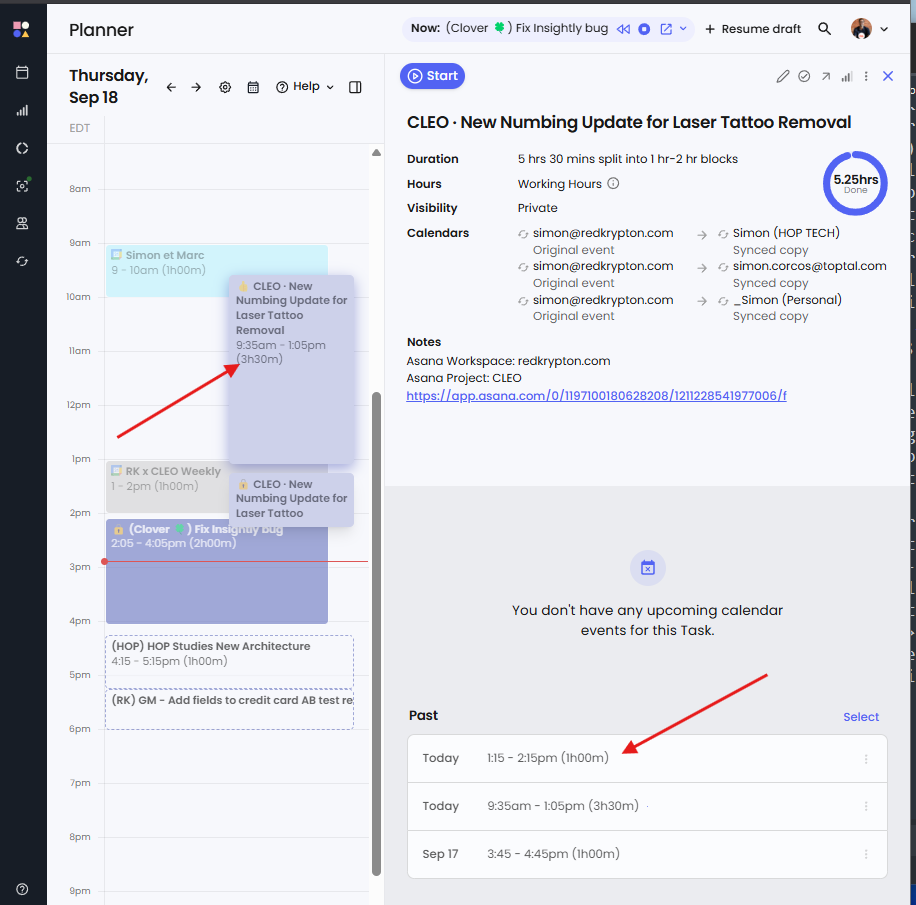
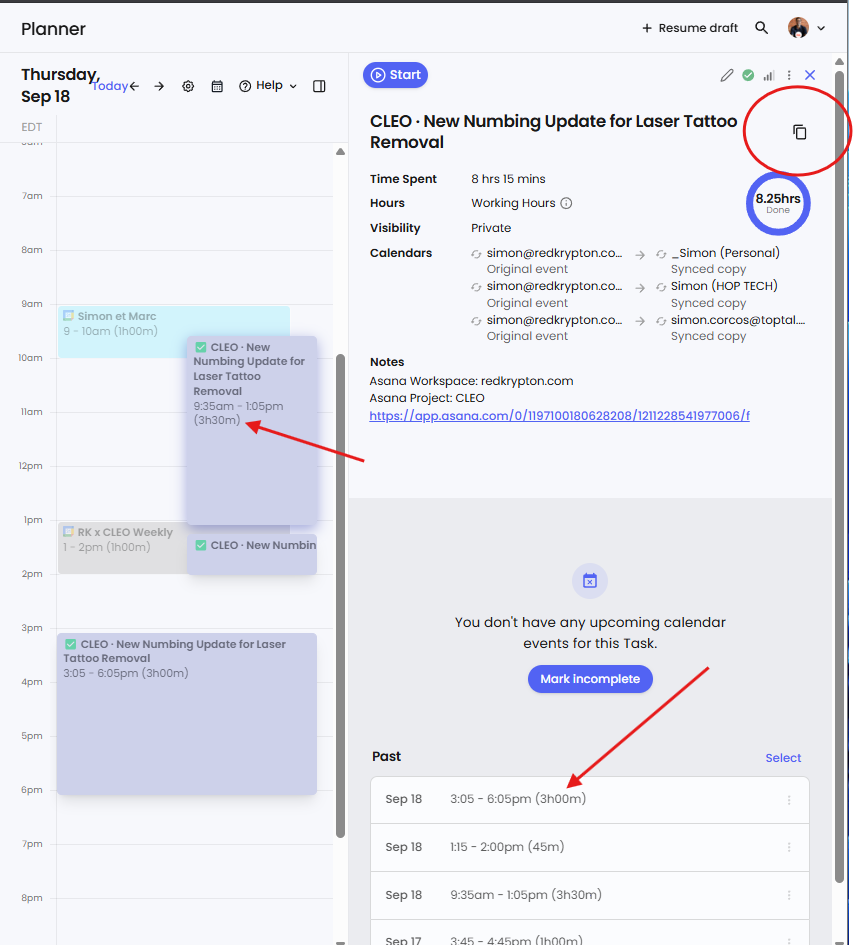
feat: copy task title button

diff --git a/content-script.js b/content-script.js
@@ -4,6 +4,7 @@
 (function () {
   const MARK_ATTR = 'data-reclaim-duration-appended';
   const MARK_VERSION = '1';
+  const COPY_BTN_ATTR = 'data-reclaim-copy-title';
 
   // Regex to match time ranges like "1:15 - 2:15pm", "9:35am - 1:05pm", or "12:00pm - 1:30pm"
   // Supports optional minutes and optional am/pm on BOTH times.
@@ -44,6 +45,52 @@
     // Always two decimals as per examples (e.g., 1.25h, 0.75h)
     const dec = (minutes / 60);
     return dec.toFixed(2);
+  }
+
+  // Parse a raw title string to remove client/project prefixes per examples
+  function parseTitleForCopy(raw) {
+    if (raw == null) return '';
+    let s = String(raw).trim();
+    if (!s) return '';
+
+    const original = s;
+
+    // 1) Remove one or more leading parenthetical tags e.g., (HOP) (RK)
+    s = s.replace(/^(?:\s*\([^)]{1,30}\)\s*)+/g, '').trim();
+
+    // 2) If there's a middle dot separator (client · title), drop the left side
+    const dotIdx = s.indexOf('·');
+    if (dotIdx > -1) {
+      const left = s.slice(0, dotIdx).trim();
+      const right = s.slice(dotIdx + 1).trim();
+      // Heuristic: left looks like a short client/project label
+      if (left.length > 0 && left.length <= 30 && left.split(/\s+/).length <= 4) {
+        s = right;
+      }
+    }
+
+    // 3) Remove prefix before hyphen when it looks like a client/project label
+    //    Handles cases like "GM - Title" and "Gleam - Title"
+    const hyphenMatch = s.match(/^\s*(.+?)\s*[\-–—]\s+(.+)$/);
+    if (hyphenMatch) {
+      const left = hyphenMatch[1].trim();
+      const right = hyphenMatch[2].trim();
+
+      const leftWords = left.split(/\s+/).filter(Boolean);
+      const rightWords = right.split(/\s+/).filter(Boolean);
+      const leftLooksLikeCode = /^[A-Z0-9]{1,5}$/.test(left);
+      const isLeftShort = left.length <= 20 && leftWords.length <= 3;
+      const leftTitleCased = leftWords.length > 0 && leftWords.every(w => /^[A-Z][a-z0-9'()&.-]*$/.test(w));
+      const rightHasIndicators = /[,()]/.test(right) || rightWords.length >= 4;
+      const rightStartsWithVerb = /\b(Add|Fix|Deploy|Update|Upgrade|Implement|Migrate|Refactor|QA|Design|Build|Setup|Set\s*up|Sync|Investigate|Research|Write|Draft|Review|Plan|Meeting|Kickoff|Support|Debug|Copy|Create|Optimize|Improve|Bug|Test)\b/i.test(right);
+
+      if (leftLooksLikeCode || (isLeftShort && leftTitleCased && (rightHasIndicators || rightStartsWithVerb))) {
+        s = right;
+      }
+    }
+
+    s = s.trim();
+    return s || original;
   }
 
   function parseAndFormatDuration(text) {
@@ -90,6 +137,26 @@
       .reclaim-duration{cursor:pointer;text-decoration:none;}
       .reclaim-duration .reclaim-duration-inner{ text-decoration:none; }
       .reclaim-duration:hover .reclaim-duration-inner{ text-decoration:underline; }
+    `;
+    (document.head || document.documentElement).appendChild(style);
+  }
+
+  function ensureCopyTitleStyle() {
+    if (document.getElementById('reclaim-copy-title-style')) return;
+    const style = document.createElement('style');
+    style.id = 'reclaim-copy-title-style';
+    style.textContent = `
+      .reclaim-copy-title-btn{ 
+        display:inline-flex; align-items:center; justify-content:center; 
+        width:18px; height:18px; min-width:22px; min-height:22px; margin-left:8px; padding:0; border-radius:4px; border:1px solid transparent; 
+        cursor:pointer; background:transparent; color:inherit; line-height:1; 
+        order:-1; flex:0 0 22px;
+      }
+      .reclaim-copy-title-btn:hover{ background:rgba(0,0,0,0.06); }
+      .reclaim-copy-title-btn:active{ transform: translateY(0.5px); }
+      .reclaim-copy-title-btn svg{ width:18px; height:18px; fill: currentColor; }
+      .reclaim-copy-title-badge{ font-size:12px; margin-left:6px; opacity:0.75; }
+      .reclaim-copy-title-viewer{ order:-2; flex: 1 1 auto; min-width:0; }
     `;
     (document.head || document.documentElement).appendChild(style);
   }
@@ -202,6 +269,200 @@
     }
   }
 
+  // ---------- Title copy button injection ----------
+  function buildCopyButton(getText) {
+    const btn = document.createElement('button');
+    btn.type = 'button';
+    btn.className = 'reclaim-copy-title-btn';
+    btn.setAttribute('aria-label', 'Copy title to clipboard');
+    btn.title = 'Copy title to clipboard';
+    btn.innerHTML = `
+      <svg viewBox="0 0 24 24" aria-hidden="true" focusable="false">
+        <path d="M16 1H4c-1.1 0-2 .9-2 2v12h2V3h12V1zm3 4H8c-1.1 0-2 .9-2 2v14c0 1.1.9 2 2 2h11c1.1 0 2-.9 2-2V7c0-1.1-.9-2-2-2zm0 16H8V7h11v14z"></path>
+      </svg>
+    `;
+
+    const copy = (e) => {
+      e.stopPropagation();
+      const raw = (typeof getText === 'function') ? (getText() || '') : '';
+      const text = parseTitleForCopy(raw);
+      if (!text) return;
+      try {
+        if (navigator.clipboard && navigator.clipboard.writeText) {
+          navigator.clipboard.writeText(text).catch(() => {});
+        } else {
+          const ta = document.createElement('textarea');
+          ta.value = text;
+          ta.style.position = 'fixed';
+          ta.style.opacity = '0';
+          document.body.appendChild(ta);
+          ta.focus();
+          ta.select();
+          try { document.execCommand('copy'); } catch (_) {}
+          document.body.removeChild(ta);
+        }
+        // brief visual feedback via title change
+        const prev = btn.title;
+        btn.title = 'Copied!';
+        setTimeout(() => { btn.title = prev; }, 1200);
+      } catch (_) {}
+    };
+    btn.addEventListener('click', copy);
+    btn.addEventListener('keydown', (e) => {
+      if (e.key === 'Enter' || e.key === ' ') { copy(e); e.preventDefault(); }
+    });
+    return btn;
+  }
+
+  function getTitleTextFromContainer(container) {
+    if (!container) return '';
+    // If in edit mode, prefer the input's value
+    const input = container.querySelector('input[type="text"], textarea');
+    if (input && typeof input.value === 'string' && input.value.trim().length > 0) {
+      return input.value.trim();
+    }
+    // Primary: span with class containing 'EmojiTextField_viewer__'
+    const viewer = container.querySelector('[class*="EmojiTextField_viewer__"]');
+    if (viewer && viewer.textContent) return viewer.textContent.trim();
+    // Fallback: any element with role heading or first text node
+    const heading = container.querySelector('[role="heading"], h1, h2, h3');
+    if (heading && heading.textContent) return heading.textContent.trim();
+    return container.textContent ? container.textContent.trim() : '';
+  }
+
+  // ----- Title wrapper processing and observers -----
+  const TITLE_WRAPPER_SELECTOR = [
+    '[class*="GenericEventDetails_inner__header__titles"] [class*="EmojiTextField_root"]',
+    // Simple title variant: plain title div inside the titles container
+    '[class*="GenericEventDetails_inner__header__titles"] [class*="GenericEventDetails_inner__header__titles__title__"]',
+    '[class*="GenericEventDetails_inner__header__titles"] > [class*="GenericEventDetails_inner__header__titles__title__"]'
+  ].join(',');
+  const wrapperObserverMap = new WeakMap();
+  const wrapperDebounceMap = new WeakMap();
+
+  function processTitleWrapper(parent) {
+    if (!parent) return;
+    // Prefer an active TextField container (edit mode); otherwise fall back to viewer span
+    let titleEl = parent.querySelector && parent.querySelector('[class*="MuiTextField-root"]');
+    if (!titleEl && parent.querySelector) titleEl = parent.querySelector('[class*="EmojiTextField_viewer__"]');
+    // Simple title case: no child title element; use parent itself as title element
+    if (!titleEl) titleEl = parent;
+
+    // Ensure ordering/styles on the title element
+    try {
+      titleEl.classList.add('reclaim-copy-title-viewer');
+      titleEl.style.order = '-2';
+      titleEl.style.flex = '1 1 auto';
+      titleEl.style.minWidth = '0';
+    } catch(_) {}
+
+    // Decide placement: if titleEl is the same as parent (simple title), append inside; otherwise, place after titleEl
+    if (titleEl === parent) {
+      const last = parent.lastElementChild;
+      if (last && last.classList && last.classList.contains('reclaim-copy-title-btn')) {
+        // Remove any duplicates elsewhere inside parent
+        const extras = Array.from(parent.querySelectorAll('.reclaim-copy-title-btn'));
+        extras.forEach((b) => { if (b !== last) b.remove(); });
+      } else {
+        parent.querySelectorAll('.reclaim-copy-title-btn').forEach((b) => b.remove());
+        const btn = buildCopyButton(() => getTitleTextFromContainer(parent));
+        // Ensure the button orders after the anonymous text flex item
+        try { btn.style.order = '1'; } catch(_) {}
+        parent.insertAdjacentElement('beforeend', btn);
+      }
+    } else {
+      // Complex (emoji/viewer or textfield) case
+      const next = titleEl.nextElementSibling;
+      if (next && next.classList && next.classList.contains('reclaim-copy-title-btn')) {
+        const extras = parent.querySelectorAll('.reclaim-copy-title-btn');
+        for (const btn of extras) { if (btn !== next) btn.remove(); }
+      } else {
+        parent.querySelectorAll('.reclaim-copy-title-btn').forEach((b) => b.remove());
+        const btn = buildCopyButton(() => getTitleTextFromContainer(parent));
+        titleEl.insertAdjacentElement('afterend', btn);
+      }
+    }
+
+    // Enforce wrapper flex layout and hide emoji picker
+    try {
+      // If using simple title (titleEl === parent), flex that element; otherwise flex the parent wrapper
+      const flexTarget = titleEl === parent ? parent : parent;
+      flexTarget.style.display = 'flex';
+      flexTarget.style.flexDirection = 'row';
+      flexTarget.style.alignItems = 'center';
+      flexTarget.style.justifyContent = 'space-between';
+      const emoji = parent.querySelector('[class*="EmojiTextField_emoji"]');
+      if (emoji && emoji.style) emoji.style.display = 'none';
+    } catch(_) {}
+  }
+
+  function isSelfMutation(mutation) {
+    // Ignore mutations fully caused by our elements/classes
+    if (mutation.type === 'childList') {
+      // If all added nodes are our button, ignore
+      if (mutation.addedNodes && mutation.addedNodes.length > 0) {
+        let allOurs = true;
+        mutation.addedNodes.forEach((n) => {
+          if (!(n.nodeType === 1 && n.classList && n.classList.contains('reclaim-copy-title-btn'))) {
+            allOurs = false;
+          }
+        });
+        if (allOurs) return true;
+      }
+      // If all removed nodes are our button, ignore
+      if (mutation.removedNodes && mutation.removedNodes.length > 0) {
+        let allOurs = true;
+        mutation.removedNodes.forEach((n) => {
+          if (!(n.nodeType === 1 && n.classList && n.classList.contains('reclaim-copy-title-btn'))) {
+            allOurs = false;
+          }
+        });
+        if (allOurs) return true;
+      }
+    } else if (mutation.type === 'attributes') {
+      const t = mutation.target;
+      if (t && t.classList) {
+        if (t.classList.contains('reclaim-copy-title-viewer') || t.classList.contains('reclaim-copy-title-btn')) {
+          return true;
+        }
+      }
+    }
+    return false;
+  }
+
+  function ensureObserverForWrapper(parent) {
+    if (!parent || wrapperObserverMap.has(parent)) return;
+    const obs = new MutationObserver((mutations) => {
+      // If all mutations are ours, skip
+      const hasRelevant = mutations.some((m) => !isSelfMutation(m));
+      if (!hasRelevant) return;
+      // Debounce per-wrapper to avoid thrashing on rapid React renders
+      const existing = wrapperDebounceMap.get(parent);
+      if (existing) clearTimeout(existing);
+      const timer = setTimeout(() => {
+        try { processTitleWrapper(parent); } catch(_) {}
+      }, 50);
+      wrapperDebounceMap.set(parent, timer);
+    });
+    obs.observe(parent, {
+      childList: true,
+      subtree: true,
+      attributes: true,
+      attributeFilter: ['class'] // ignore style changes we apply
+    });
+    wrapperObserverMap.set(parent, obs);
+  }
+
+  function ensureTitleCopyButtons() {
+    ensureCopyTitleStyle();
+    // Find title wrappers and handle both view and edit modes
+    const wrappers = document.querySelectorAll(TITLE_WRAPPER_SELECTOR);
+    for (const parent of wrappers) {
+      processTitleWrapper(parent);
+      ensureObserverForWrapper(parent);
+    }
+  }
+
   // Throttled processing of candidate <p> elements collected from mutations
   const candidatePs = new Set();
   let throttleTimer = null;
@@ -227,9 +488,14 @@
   }
 
   function runAnnotationNow() {
-    if (candidatePs.size === 0) return;
-    for (const el of candidatePs) annotateElement(el);
-    candidatePs.clear();
+    // Always ensure the title copy button and ordering on each tick
+    try { ensureTitleCopyButtons(); } catch (_) {}
+
+    // Process candidate <p> nodes if any
+    if (candidatePs.size > 0) {
+      for (const el of candidatePs) annotateElement(el);
+      candidatePs.clear();
+    }
   }
 
   function scheduleAnnotate() {
@@ -268,10 +534,13 @@
     document.addEventListener('DOMContentLoaded', () => {
       document.querySelectorAll('p').forEach((p) => candidatePs.add(p));
       scheduleAnnotate();
+      // Initial title scan
+      try { ensureTitleCopyButtons(); } catch (_) {}
     }, { once: true });
   } else {
     document.querySelectorAll('p').forEach((p) => candidatePs.add(p));
     scheduleAnnotate();
+    try { ensureTitleCopyButtons(); } catch (_) {}
   }
   setupObserver();
 })();

diff --git a/README.md b/README.md
@@ -1,14 +1,14 @@
 # Reclaim Planner Extension (Chrome Extension)
 
-Adds durations to time ranges on the Reclaim planner page, ready to copy into timesheets.
+Adds helpful utilities on the Reclaim Planner page (`app.reclaim.ai/planner`) to speed up timesheets and task workflows.
 
 Example:
 - `1:15 - 2:15pm` → `1:15 - 2:15pm (1h00m)`
 
 ## Features
 
-- 🔍 Detects time ranges like `h[:mm] - h[:mm][am|pm]` on the planner.
 - ⏱ Appends a duration to detected time ranges.
-    ![Screenshot of Reclaim Planner Duration Helper in action](./readme-content/screenshot.png)
+        ![Screenshot of Reclaim Planner Duration Helper in action](./readme-content/screenshot.png)
 - 📋 Click the appended duration to copy the decimal value (e.g., `1.25`) to your clipboard for time entries.
+- 🧲 Copy clean task titles: adds a copy button to the right of the task title in the details pane.
 - ♻ Updates automatically as the page content changes.
